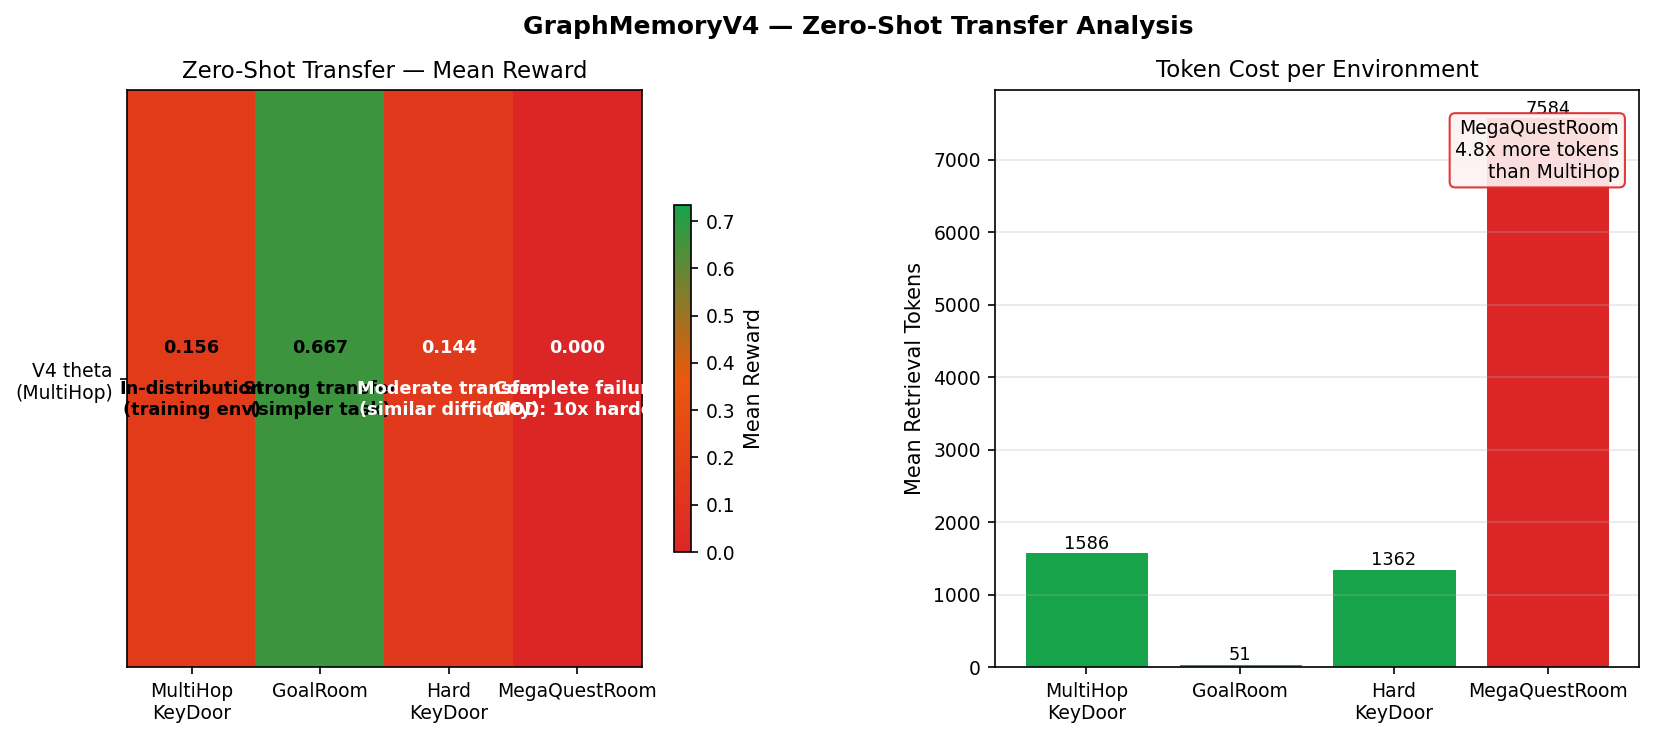
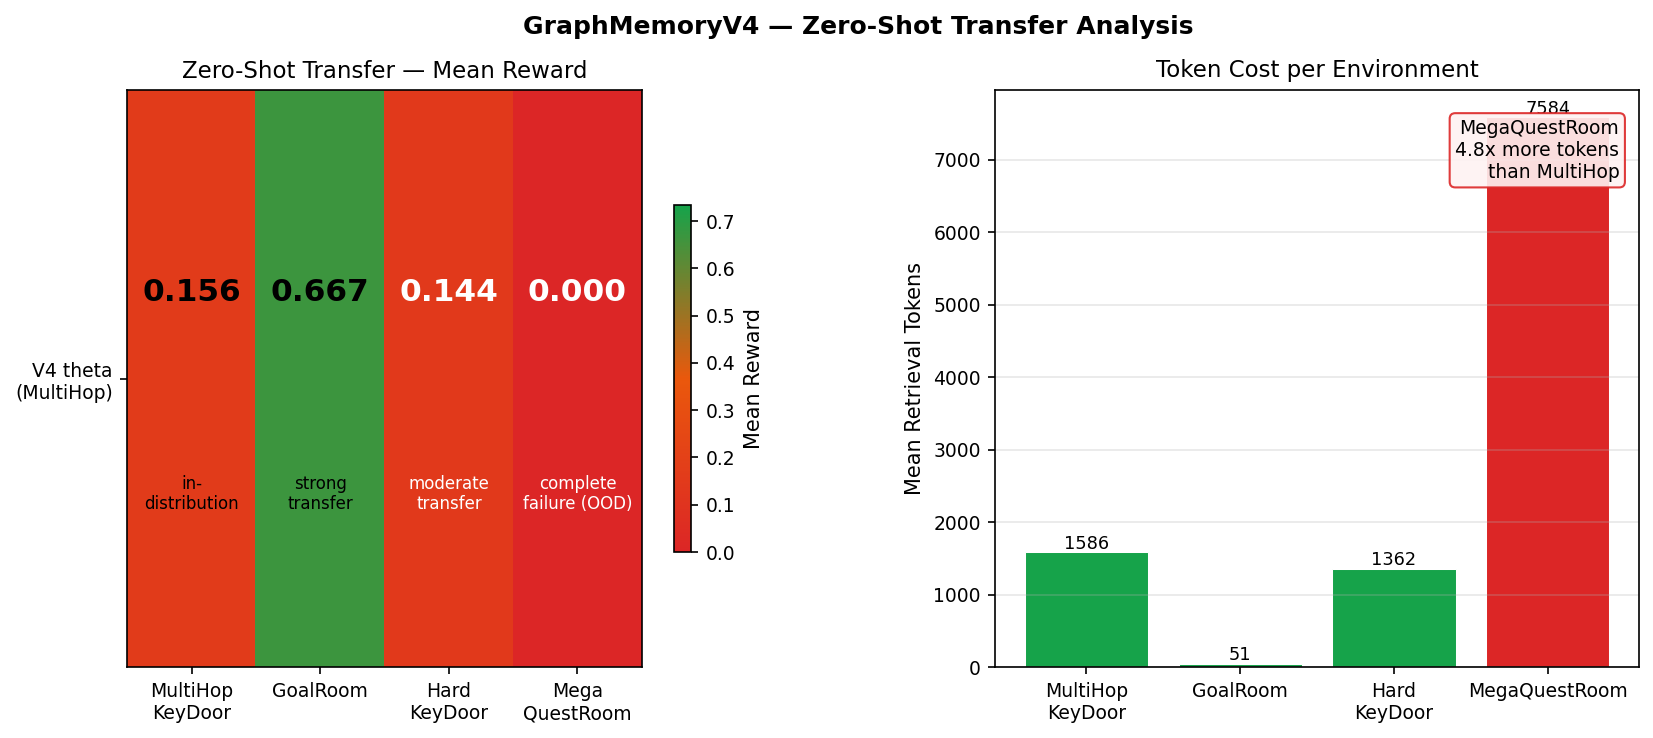
Fix fig_transfer_annotated: move interpretive phrases out of cramped heatmap cells
Cell annotations packed the reward value plus a two-line phrase into a ~1.1in
cell, so the text overflowed and collided. Now: value large+centred in the
upper half of each (full-height) cell, short wrapped phrase in the lower half,
env name only on the x-axis. No overflow into neighbouring columns.

diff --git a/generate_thesis_figures.py b/generate_thesis_figures.py
@@ -342,11 +342,18 @@ def fig_transfer_annotated():
     rewards = [matrix[e]["mean_reward"] for e in envs]
     tokens  = [matrix[e]["mean_tokens"] for e in envs]
 
-    annotations = {
-        "MultiHopKeyDoor": "In-distribution\n(training env)",
-        "GoalRoom":        "Strong transfer\n(simpler task)",
-        "HardKeyDoor":     "Moderate transfer\n(similar difficulty)",
-        "MegaQuestRoom":   "Complete failure\n(OOD: 10x harder)",
+    # Short interpretive labels, shown INSIDE each cell stacked under the value.
+    # They are not placed under the x-axis: the columns are only ~1.4in wide, so
+    # a phrase like "complete failure (OOD)" rendered as a tick label overflows
+    # and collides with the neighbouring column. The cell itself spans the full
+    # panel height, so stacking the phrase below the value is overflow-safe.
+    # Phrases are pre-wrapped to short stacked lines (longest line ~13 chars) so
+    # they fit within the ~1.1in column width and never run into a neighbour.
+    short_annot = {
+        "MultiHopKeyDoor": "in-\ndistribution",
+        "GoalRoom":        "strong\ntransfer",
+        "HardKeyDoor":     "moderate\ntransfer",
+        "MegaQuestRoom":   "complete\nfailure (OOD)",
     }
 
     fig, (ax1, ax2) = plt.subplots(1, 2, figsize=(13, 5))
@@ -358,16 +365,28 @@ def fig_transfer_annotated():
     im = ax1.imshow(reward_arr, cmap=cmap, vmin=0, vmax=max(rewards) * 1.1,
                     aspect="auto")
     ax1.set_xticks(range(len(envs)))
-    ax1.set_xticklabels([e.replace("KeyDoor", "\nKeyDoor") for e in envs], fontsize=9)
+
+    def _wrap_env(e):
+        return e.replace("KeyDoor", "\nKeyDoor").replace("QuestRoom", "\nQuestRoom")
+
+    # x-axis carries only the (wrapped) environment name.
+    ax1.set_xticklabels([_wrap_env(e) for e in envs], fontsize=9)
     ax1.set_yticks([0])
     ax1.set_yticklabels(["V4 theta\n(MultiHop)"], fontsize=9)
     ax1.set_title("Zero-Shot Transfer — Mean Reward")
     plt.colorbar(im, ax=ax1, label="Mean Reward", shrink=0.6)
 
+    # Each cell: large reward value, with the short interpretive phrase stacked
+    # just below it. Value sits slightly above the row centre, phrase below —
+    # both centred horizontally, so nothing overflows into adjacent columns.
     for j, (env, r) in enumerate(zip(envs, rewards)):
-        ax1.text(j, 0, f"{r:.3f}\n\n{annotations[env]}",
-                 ha="center", va="center", fontsize=8.5,
-                 color="white" if r < 0.15 else "black", fontweight="bold")
+        txt_color = "white" if r < 0.15 else "black"
+        ax1.text(j, -0.15, f"{r:.3f}",
+                 ha="center", va="center", fontsize=15,
+                 color=txt_color, fontweight="bold")
+        ax1.text(j, 0.20, short_annot[env],
+                 ha="center", va="center", fontsize=8,
+                 color=txt_color, linespacing=1.15)
 
     # ── right: token cost bar ──
     bar_colors = [GREEN if e != "MegaQuestRoom" else RED for e in envs]
